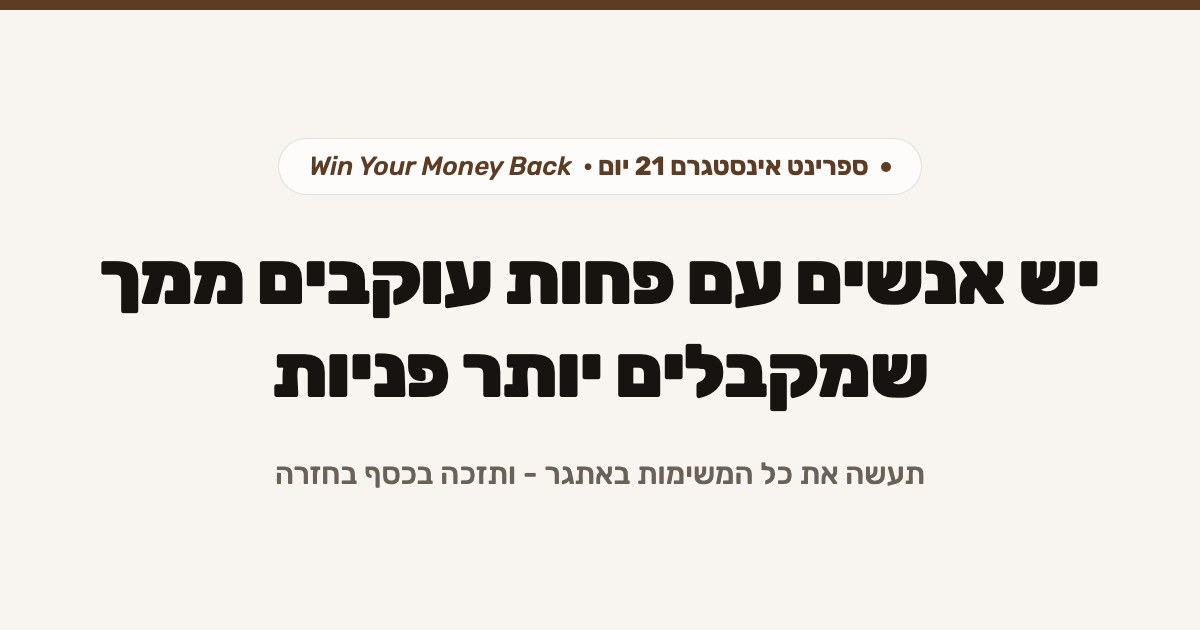
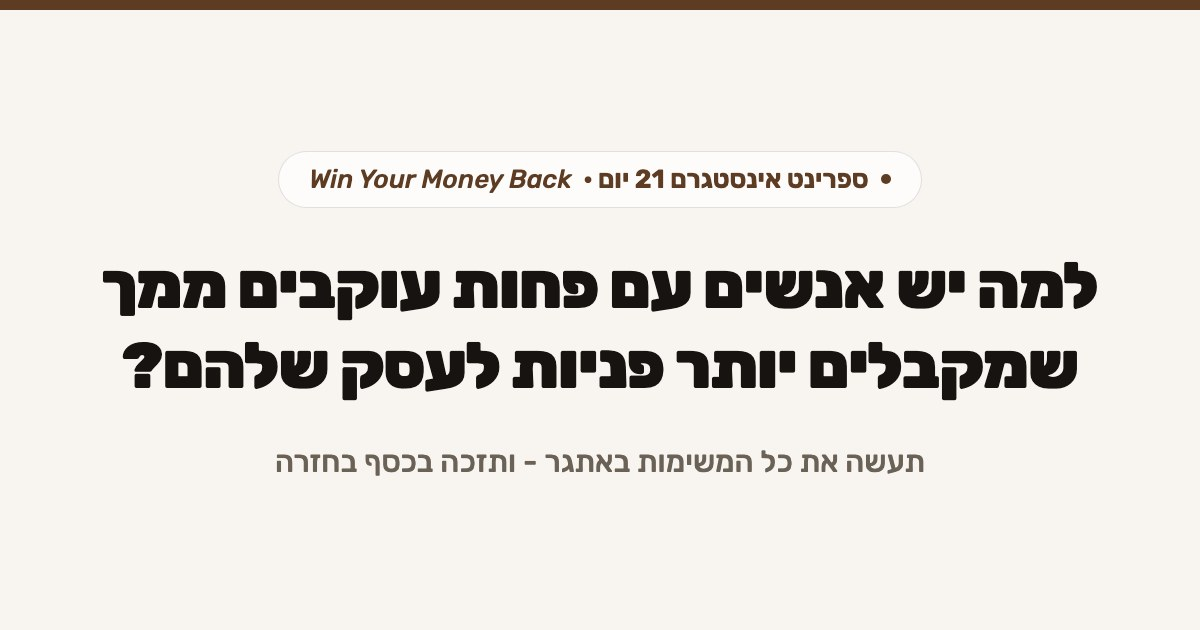
New headline + updated OG image

diff --git a/index.html b/index.html
@@ -9,7 +9,7 @@
   <!-- share preview (WhatsApp / Facebook / etc.) -->
   <meta property="og:type" content="website" />
   <meta property="og:title" content="ספרינט אינסטגרם 21 יום" />
-  <meta property="og:description" content="יש אנשים עם פחות עוקבים ממך שמקבלים יותר פניות. אתגר Win Your Money Back - תעשה את כל המשימות ותזכה בכסף בחזרה." />
+  <meta property="og:description" content="למה יש אנשים עם פחות עוקבים ממך שמקבלים יותר פניות לעסק שלהם? אתגר Win Your Money Back - תעשה את כל המשימות ותזכה בכסף בחזרה." />
   <meta property="og:url" content="https://itaikorisky.co.il/" />
   <meta property="og:image" content="https://itaikorisky.co.il/og-image.jpg" />
   <meta property="og:image:width" content="1200" />
@@ -1094,7 +1094,7 @@
     var HEADLINES = {
       1: "יכול להיות שהאינסטגרם שלך כבר מספיק גדול כדי להביא לך לידים",
       2: "אתה לא צריך עוד עוקבים\nאתה צריך יותר פניות מהעוקבים שכבר יש לך",
-      3: "יש אנשים עם פחות עוקבים ממך שמקבלים יותר פניות",
+      3: "למה יש אנשים עם פחות עוקבים ממך שמקבלים יותר פניות לעסק שלהם?",
       4: "אולי הבעיה שלך באינסטגרם היא לא שאין לך מספיק עוקבים\nאולי אתה פשוט לא מוציא מספיק פניות מהאנשים שכבר עוקבים אחריך",
       5: "מה אם לא היית צריך לרדוף אחרי עוד עוקבים כדי לקבל עוד לקוחות"
     };
